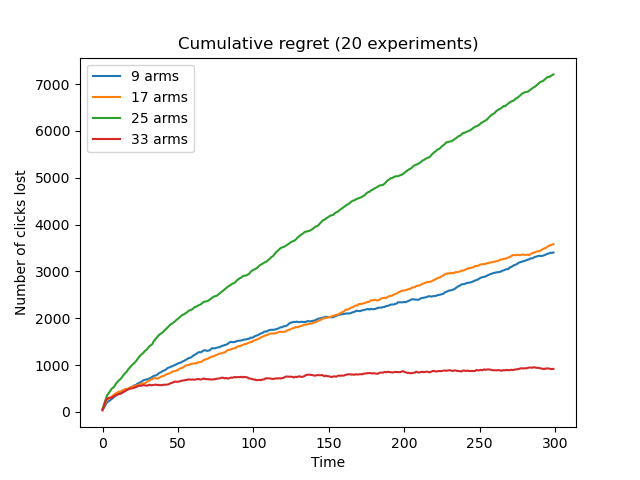
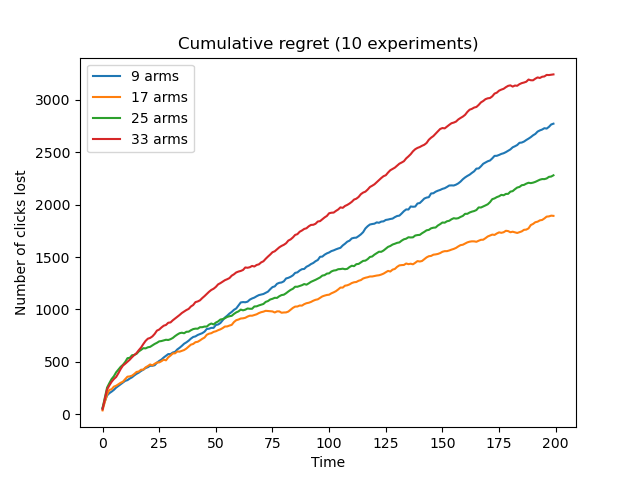
slight changes

diff --git a/P2P3/budget_optimizer.py b/P2P3/budget_optimizer.py
@@ -13,9 +13,9 @@ from optimization import dynamic_opt
 from scipy.optimize import curve_fit
 
 
-#seed = 15
-#random.seed(seed)
-#np.random.seed(seed)
+seed = 16
+random.seed(seed)
+np.random.seed(seed)
 
 
 def t_to_phase(subcampaign, time_horizon, t_):
@@ -242,11 +242,26 @@ def budget_optimizer(budget, budgets, sigma, time_horizon, n_tuning=1000, n_expe
         fig = plt.figure()
         plt.xlabel('Time')
         plt.ylabel('Number of clicks lost')
-        plt.title("Cumulative regret (20 experiments)")
+        plt.title("Cumulative regret (10 experiments)")
 
         for iteration in range(len(budgets)):
-            plt.plot(np.cumsum(np.mean(regrets[iteration], axis=0)),label='%s arms' % len(budgets[iteration]))
+            if (n_experiments > 3):
+                for j in range(1+int(n_experiments/10)):
+                    sums = []
+                    for i in range(n_experiments-2*j):
+                        sums.append(max(np.cumsum(regrets[iteration][i])))
 
+                    indexes = []
+                    indexes.append(np.argmax(sums))
+                    indexes.append(np.argmin(sums))
+                    for index in sorted(indexes, reverse=True):
+                        del(regrets[iteration])[index]
+
+                plt.plot(np.cumsum(np.mean(regrets[iteration], axis=0)),label='%s arms' % len(budgets[iteration]))
+                print(len(regrets[iteration]))
+
+            else:
+                plt.plot(np.cumsum(np.mean(regrets[iteration], axis=0)),label='%s arms' % len(budgets[iteration]))
         if sliding_window:
             plt.vlines([i * time_horizon for i in abrupt_phases], 0,8000, colors='r', linestyles='solid', label = 'Phase change')
         plt.legend()

diff --git a/P2P3/data.py b/P2P3/data.py
@@ -8,13 +8,13 @@ graphics = True
 debug = True  # if True it shows useless plots
 sliding_window = False # if True the experiment is conducted with time-varying demand curves
 show_curves = False
-n_experiments = 4
+n_experiments = 10
 adv_budget = 1.0
-n_arms_adv = 25
-#n_arms_adv = [9,17,25,33]
+#n_arms_adv = 20
+n_arms_adv = [9,17,25,33]
 # in order to compare graphically multiple instances, multiple arms can be tested
 
-time_horizon = 300  # time used for optimizing the budget allocation
+time_horizon = 250  # time used for optimizing the budget allocation
 window_size = int(time_horizon/10)
 
 min_budget = 0.0
